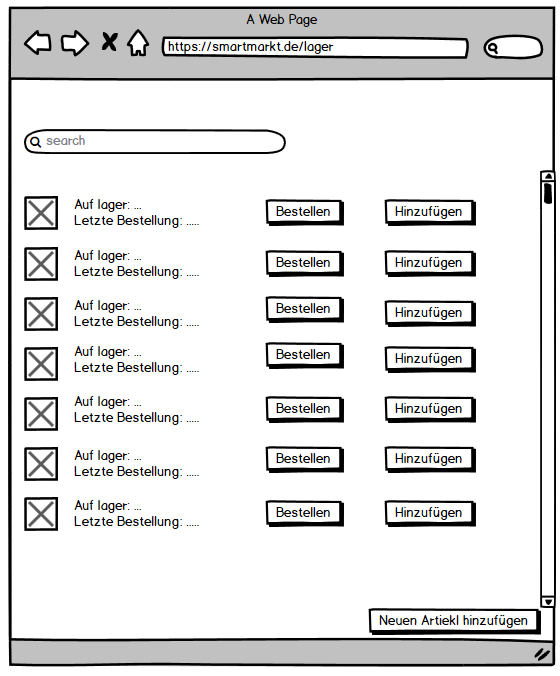
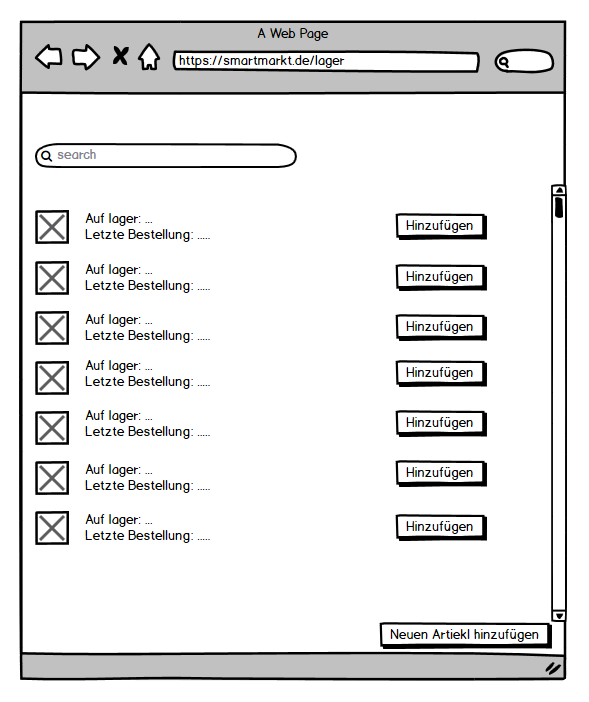
update smartmarkt spezifikation

diff --git a/docs/andre_matutat/spezifikation.md b/docs/andre_matutat/spezifikation.md
@@ -47,7 +47,7 @@ Das System ist jedoch keine voll Automatisierung des Einzelhandels. Kundenbestel
 
 ### 2.3.2 Betriebsbedingungen
 
-- Verfügbarkeit per Webzugriff mit den Browsen Google Chrome und Firefox
+- Verfügbarkeit per Webzugriff mit den Browsern Google Chrome und Firefox
 - optimiert Darstellung auf Android Smartphones
 
 ### 2.3.3 Qualitätsmerkmale
@@ -103,8 +103,6 @@ Prüfbarkeit |X|-|-|-
 
 ## 2.5 Anforderungen im Detail
 
-### Schablone für User Stories
-
 | **Als** | **möchte ich** | **so dass** | **Akzeptanz** |
 | :------ | :----- | :------ | :-------- |
 | Kunde        | Produkte einsehen                        | ich mich entscheiden kann, ob ich sie kaufen möchte          | Produkt Katalog wird im Frontend angezeigt                  |
@@ -117,12 +115,10 @@ Prüfbarkeit |X|-|-|-
 | Kunde| Produkt bewerten| ich Feedback geben kann | Produktbewertung möglich|
 | Angestellter | Bestellungen einsehen                    | ich offene Bestellungen sehen kann                           | Bestellungen werden angezeigt                               |
 | Angestellter | den Lagerbestand einsehen                | ich sehen kann, wie viele Produkte noch im Lager sind        | Lagerbestand einsehbar                                      |
-| Angestellter | Artikel bestellen                        | der Zulieferer den Supermarkt neue Artikel zuschickt         | Bestellungen können beim Zulieferer getätigt werden         |
 | Angestellter | Lager füllen                             | der Lagerbestand gefüllt wird                                | Lagerbestand lässt sich anpassen                            |
 | Angestellter | Preise ändern                            | ich Angebote erstellen oder Preisänderungen durchführen kann | Preise lassen sich ändern                                   |
-| Angestellter | Bestellungen bearbeiten                  | ich die Bestellung bearbeiten kann | Bestellungen lassen sich als "in bearbeitung" markieren     |
-| Angestellter | Bestellungen liefern                     | ich die Bestellung liefern kann | Bestellungen lassen sich als "in zustellung" markieren      |
-| Angestellter | Bestellungen fertigstellen               | ich die Bestellung als Fertiggestellt markieren kann | Bestellungen lassen sich als "fertig" markieren             |
+| Angestellter | Bestellstatus ändern | der aktuelle Bestellstatus einsehbar ist | Bestellstatus lässt sich ändern|
+| User         | mich einloggen                           | damit mir die Funktionen des SmartMarkts zur Verfügung stehen | User kann sich anmelden                                     |
 
 
 # 3 Technische Beschreibung
@@ -137,117 +133,65 @@ Prüfbarkeit |X|-|-|-
 
 ## 3.3 Schnittstellen
 
-### Produkt bestellen
+### 3.3.1 gRPC
 
-API um ein Produkt direkt (ohne Umweg über die Webseite) zu bestellen. Es kann nur ein Produkt (mit beliebiger Stückzahl) pro Anfrage bestellt werden. 
+API um Bestellungen direkt (ohne die Webseite) aufzugeben und den Bestellstatus zu prüfen. 
 
 ```
-"sgse.models.supermarkt.bestellen":{
-	"description": "Create an order. Returns orderID", 
-	"fields": [
-		{"name": "userID", "type": "id", "required": true}
-		{"name": "productID", "type": "id", "required": true}
-		{"name": "number", "type": "int", "required": true}
-		{"name": "usePoints", "type": "boolean", "required": true}
-	]
+syntax = "proto3";
+
+package grpcOrder;
+
+service OrderService { 
+    rpc makeOrder (OrderInformation) returns (OrderID){}
+    rpc trackOrder (OrderID) returns (OrderState){}
+}
+
+message OrderID {
+    int32 orderID=1; //-1 if order failed
+}
+
+message OrderInformation{
+    int32 userID=1;
+    int32 artickeID=2;
+    int32 howMany=3;
+}
+
+message OrderState{
+    string state=1;
 }
 ```
 
-### Bestellstatus einsehen
+### 3.3.2 Ereignisse (RabbitMQ)
 
-API um den Bestellstatus direkt (ohne Umweg über die Webseite) abzufragen. 
+#### Sende
 
 ```
-"sgse.models.supermarkt.verfolgen":{
-	"description": "Returns order status", 
-	"fields": [
-		{"name": "orderID", "type": "id", "required": true}
-	]
+"sgse.messages.supermarkt.updatePrice":{
+    "description": "The following Articleprice was updated", 
+        "fields": [
+            {"name": "articleID", "type": "int", "required": true}
+            {"name" "oldPrice". type: "float". "required": true}
+            {"name" "newPrice". type: "float". "required": true}
+        ]
 }
 ```
 
-## 3.3.1 Ereignisse
 
 #### Empfangen
-- **Bürger verstorben** 
-- **Bürger hinzugezogen**
-- **Bürger weggezogen**
+
+##### Bürger Büro
+
+- Bürgerdaten aktualisiert => Lieferadresse aktualisieren 
+
+- Nutzerkonto deaktiviert => Kundenkonto löschen
+
+- Neuer Bürger hinzugezogen => Kundenkonto erstellen
+
+  
 
 ## 3.4 Datenmodell 
-
-### Produkt
-
-```
-"sgse.supermarkt.produkt": {
-    "description": "A produkt",
-    "fields": [
-        {"name": "productID", "type": "id", "required": true},
-        {"name": "supplierID", "type": "id", "required": true},
-        {"name": "name", "type": "string", "required": true},
-        {"name": "price", "type": "float", "required": true},
-        {"name": "taxes", "type": "float", "required": true},
-        {"name": "stock", "type": "int", "required": true} 		
-    ]
-}
-```
-### Zulieferer
-```
-"sgse.supermarkt.suplier": {
-    "description": "Suplier",
-    "fields": [      
-        {"name": "supplierID", "type": "id", "required": true},
-        {"name": "name", "type": "string", "required": true},
-        {"name": "address", "type": "string", "required": true},
-        {"name": "phone", "type": "string", "required": true},
-        {"name": "mail", "type": "string", "required": true}, 		
-    ]
-}
-```
-### Bestellungen (Zulieferer)
-```
-"sgse.supermarkt.suplierOrder": {
-    "description": "Suplier",
-    "fields": [      
-        {"name": "productID", "type": "id", "required": true},
-        {"name": "supplierID", "type": "id", "required": true},
-        {"name": "date", "type": "Date", "required": true},
-        {"name": "number", "type": "int", "required": true},  
-        {"name": "status", "type": "string", "required": true}        
-    ]
-}
-```
-### Kunden
-```
-"sgse.supermarkt.customer": {
-    "description": "Customer of the market",
-    "fields": [      
-        {"name": "customerID", type: "id", "required": true},
-       	{"name": "paybackPoints", type: "int", "required": true},
-    ]
-}
-```
-### Bestellung (Kunden)
-```
-"sgse.supermarkt.order": {
-    "description": "Customer order",
-    "fields": [      
-        {"name": "customerID", type: "id", "required": true},
-       	{"name": "products", "type": "id[]", "required": true},
-       	{"name": "number", "type": "int[]", "required": true},
-       	{"name": "status", "type": "string", "required": true}       	
-    ]
-}
-```
-### Angestellte 
-```
-"sgse.supermarkt,employee": {
-    "description": "Employee of the market",
-    "fields": [      
-        {"name": "cemployeeID", type: "id", "required": true},    
-        {"name": "salery", type: "float", "required": true}
-    ]
-}
-```
+![m_lager](./img/erd.png)
 
 ## 3.5 Abläufe
 
@@ -269,7 +213,7 @@ API um den Bestellstatus direkt (ohne Umweg über die Webseite) abzufragen.
 
 ## 4.1 Annahmen
 
-- Verwendete Technologien: HTML, JavaScript, react.js, Akka HTTP, Scala, MongoDB
+- Verwendete Technologien: HTML, Scala.js, Scala Playframework, PostgreSQL, gRPC, rabbitMQ, Docker
 - Aufteilung in Repositories gemäß Software- und Systemarchitektur und Softwarebbausteinen
 
 
